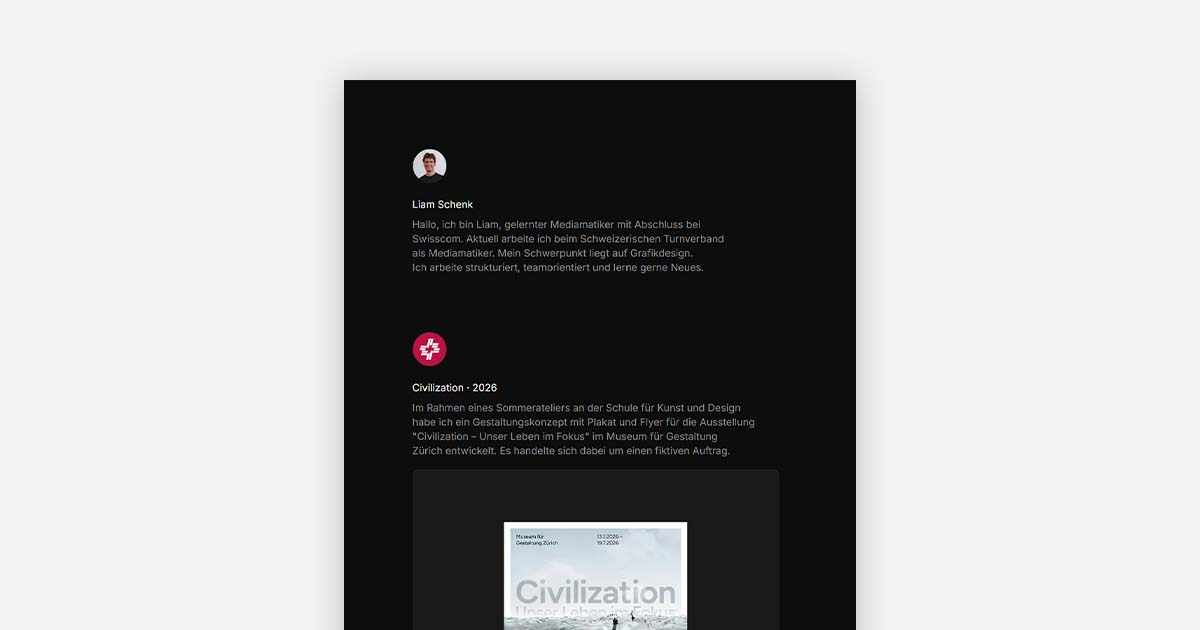
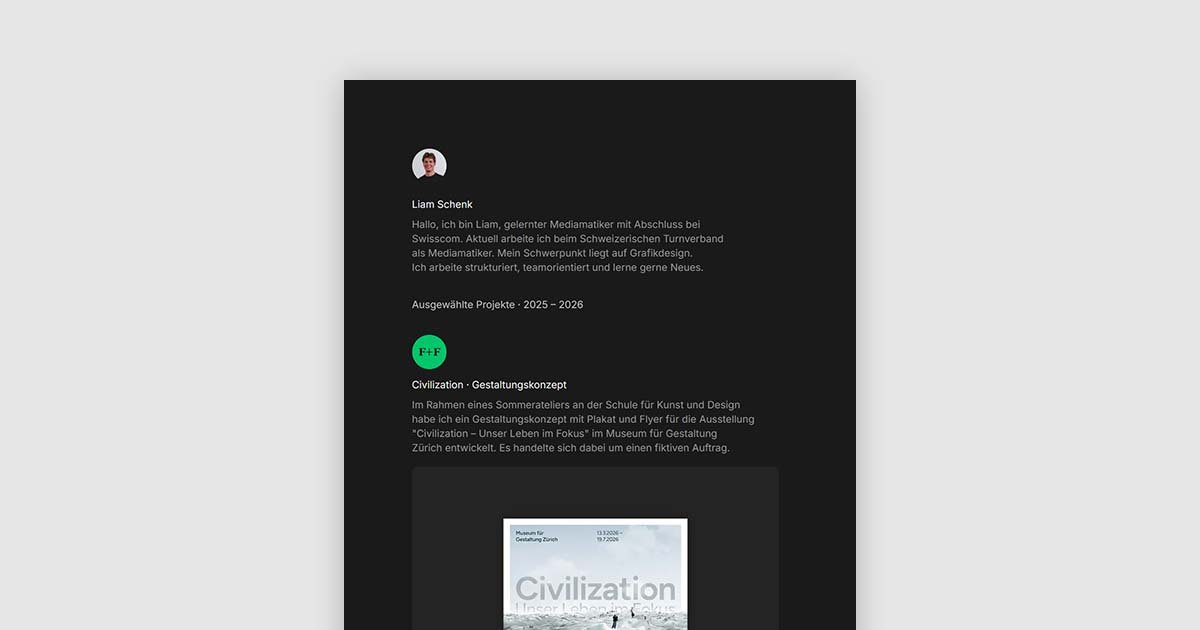
v6.1.5 - Theming

diff --git a/app/pages/homepage.js b/app/pages/homepage.js
@@ -35,7 +35,7 @@ function ProjectCarousel({ name, media }) {
   }, [emblaApi, onSelect]);
 
   return (
-    <div className={`${styles["carousel-wrapper"]} border`}>
+    <div className={styles["carousel-wrapper"]}>
       <div className="embla" ref={emblaRef}>
         <div className={styles["carousel-track"]}>
           {media.map((item, index) =>
@@ -69,43 +69,63 @@ function ProjectCarousel({ name, media }) {
 }
 
 export default function Homepage({ about, projects }) {
+  function getTimespan(projects) {
+    const years = projects
+      .map((project) => project.date)
+      .filter(Boolean)
+      .map((date) => new Date(date).getUTCFullYear());
+
+    if (years.length === 0) return "Unbekannt";
+
+    const earliest = Math.min(...years);
+    const latest = Math.max(...years);
+
+    return earliest === latest ? `${earliest}` : `${earliest} – ${latest}`;
+  }
+
   return (
     <main>
-      <section
-        className={`${styles["about-wrapper"]} margin-top-large margin-bottom-extra-large padding-bottom-medium`}
-      >
-        <div>
+      <section className={`${styles["about-wrapper"]} margin-top-large`}>
+        <div className="padding-bottom-medium">
           <img
-            className={`${styles["about-portrait"]} border`}
+            className={styles["about-portrait"]}
             src={about.portrait?.asset?.url}
             alt={`Portrait von ${about.name}`}
             draggable="false"
           />
         </div>
         <div className={styles["about-details"]}>
-          <h1 className="color-secondary">{about.name}</h1>
+          <h1 className="color-secondary padding-bottom-small">{about.name}</h1>
           <p className="color-quaternary">{about.description}</p>
         </div>
       </section>
 
       <section
-        className={`${styles["projects-wrapper"]} margin-top-extra-large margin-bottom-large`}
+        className={`${styles["timespan-wrapper"]} margin-top-large margin-bottom-large`}
       >
+        <p className="color-tertiary">
+          Ausgewählte Projekte · {getTimespan(projects)}
+        </p>
+      </section>
+
+      <section className={`${styles["projects-wrapper"]} margin-bottom-large`}>
         {projects.map((project) => (
           <div
-            className={`${styles["project-wrapper"]} padding-bottom-medium`}
+            className={`${styles["project-wrapper"]} padding-bottom-large`}
             key={project._id}
           >
-            <div>
+            <div className="padding-bottom-small">
               <img
-                className={`${styles["project-picture"]} border`}
+                className={styles["project-picture"]}
                 src={project.picture?.asset?.url}
                 alt={project.name}
                 draggable="false"
               />
             </div>
-            <div className={styles["project-details"]}>
-              <h2 className="color-secondary">
+            <div
+              className={`${styles["project-details"]} padding-bottom-medium`}
+            >
+              <h2 className="color-secondary padding-bottom-small">
                 {project.name} · {project.topic}
               </h2>
               <p className="color-quaternary">{project.description}</p>

diff --git a/app/globals.css b/app/globals.css
@@ -16,12 +16,14 @@
 /* Theming */
 @media (prefers-color-scheme: light) {
   :root {
-    --primary: rgb(242 242 242);
-    --secondary: rgb(13 13 13);
-    --tertiary: rgb(64 64 64);
-    --quaternary: rgb(115 115 115);
-    --quinary: rgb(230 230 230);
-    --senary: rgb(217 217 217);
+    --primary: rgb(250 250 250);
+    --secondary: rgb(5 5 5);
+    --tertiary: rgb(46 46 46);
+    --quaternary: rgb(87 87 87);
+    --quinary: rgb(240 240 240);
+    --senary: rgb(230 230 230);
+    --septenary: rgb(199 199 199);
+    --octonary: rgb(168 168 168);
   }
 
   html {
@@ -31,12 +33,14 @@
 
 @media (prefers-color-scheme: dark) {
   :root {
-    --primary: rgb(13 13 13);
-    --secondary: rgb(240 240 240);
-    --tertiary: rgb(191 191 191);
-    --quaternary: rgb(140 140 140);
-    --quinary: rgb(26 26 26);
-    --senary: rgb(38 38 38);
+    --primary: rgb(26 26 26);
+    --secondary: rgb(230 230 232);
+    --tertiary: rgb(189 189 189);
+    --quaternary: rgb(148 148 148);
+    --quinary: rgb(36 36 36);
+    --senary: rgb(46 46 46);
+    --septenary: rgb(77 77 77);
+    --octonary: rgb(107 107 107);
   }
 
   html {
@@ -109,6 +113,14 @@ a {
 }
 
 /* Padding */
+.padding-top-large {
+  padding-top: var(--spacing-l);
+}
+
+.padding-bottom-large {
+  padding-bottom: var(--spacing-l);
+}
+
 .padding-top-medium {
   padding-top: var(--spacing-m);
 }
@@ -117,7 +129,10 @@ a {
   padding-bottom: var(--spacing-m);
 }
 
-/* Border */
-.border {
-  border: 1px solid var(--senary);
+.padding-top-small {
+  padding-top: var(--spacing-s);
+}
+
+.padding-bottom-small {
+  padding-bottom: var(--spacing-s);
 }

diff --git a/app/styles/homepage.module.css b/app/styles/homepage.module.css
@@ -4,14 +4,12 @@
 .projects-wrapper {
   display: flex;
   flex-wrap: wrap;
-  gap: var(--spacing-l);
 }
 
 .about-wrapper,
 .project-wrapper {
   display: flex;
   flex-wrap: wrap;
-  gap: var(--spacing-m);
 }
 
 .about-portrait,
@@ -26,7 +24,6 @@
 .project-details {
   display: flex;
   flex-wrap: wrap;
-  gap: var(--spacing-s);
 }
 
 /* Carousel */
@@ -77,7 +74,7 @@
 .carousel-dots {
   position: absolute;
   right: var(--spacing-m);
-  bottom: var(--spacing-m);
+  bottom: calc(3 * var(--spacing-s));
   left: var(--spacing-m);
   display: flex;
   gap: var(--spacing-s);
@@ -90,13 +87,13 @@
 .carousel-dot {
   width: 5px;
   height: 5px;
-  background-color: var(--quaternary);
+  background-color: var(--septenary);
   border-radius: 100%;
   transition: background-color 0.25s ease-in-out;
 }
 
 .carousel-dot.active {
-  background-color: var(--tertiary);
+  background-color: var(--octonary);
   transition: background-color 0.25s ease-in-out;
 }
 

diff --git a/app/layout.js b/app/layout.js
@@ -61,7 +61,7 @@ export const metadata = {
 export const viewport = {
   width: "device-width",
   initialScale: 1,
-  themeColor: "#f2f2f2",
+  themeColor: "#fafafa",
 };
 
 const personSchema = {
